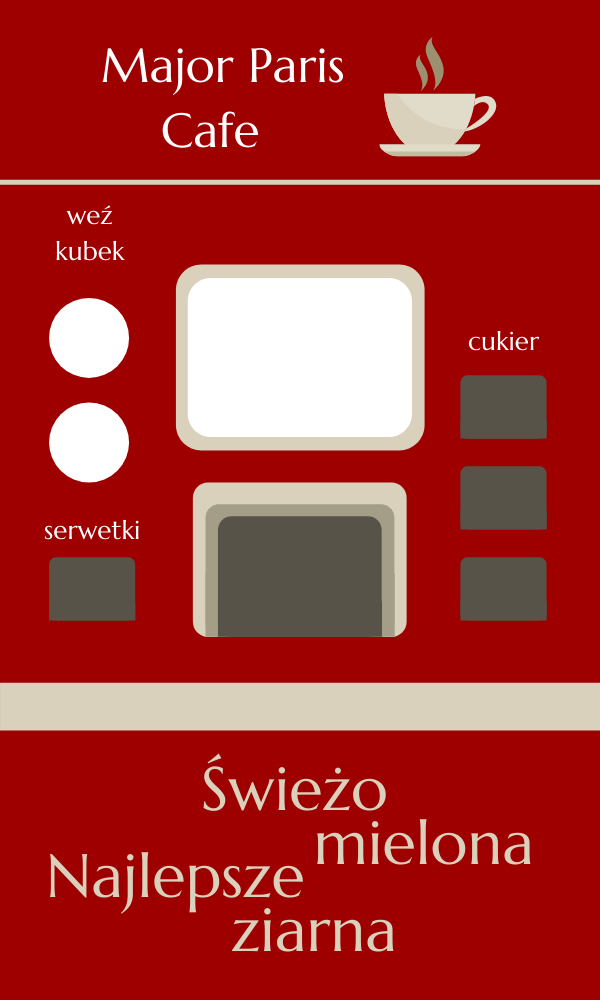
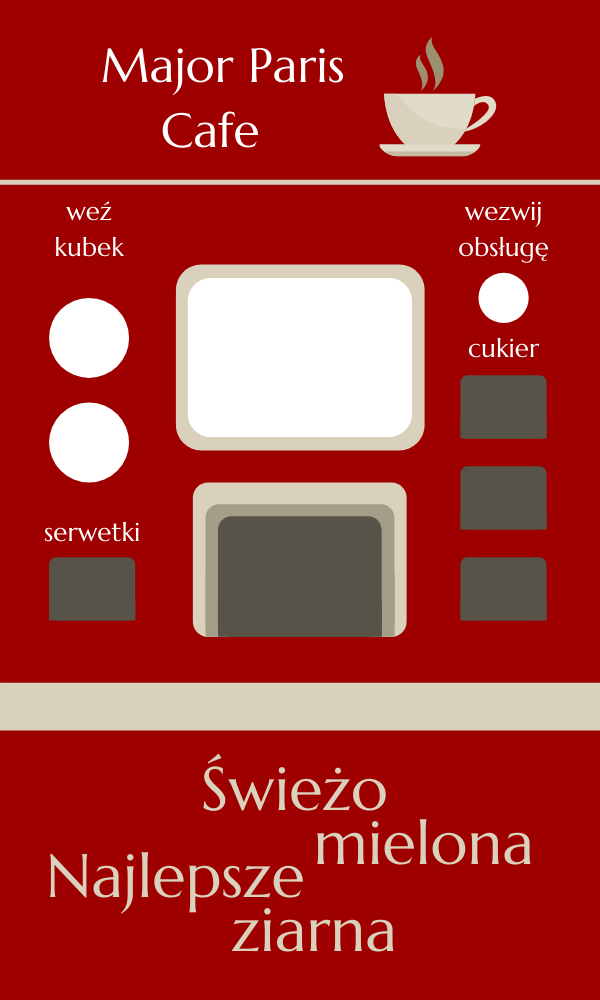
Added features: call help button, sounds when making coffee

Changed region(s): [[0.78, 0.186, 0.9, 0.372], [0.09, 0.186, 0.21, 0.279], [0.06, 0.527, 0.24, 0.558]]

diff --git a/src/sample/style.css b/src/sample/style.css
@@ -110,3 +110,12 @@
     -fx-background-position: center;
     -fx-background-repeat: no-repeat;
 }
+
+.help_button {
+    -fx-background-image: url('images/help.png');
+    -fx-background-size: 100%;
+    -fx-background-position: center;
+    -fx-background-repeat: no-repeat;
+    -fx-effect: dropshadow( three-pass-box , rgba(0,0,0,1) , 3, 0.0 , 0 , 1 );
+    -fx-background-radius: 5em;
+}

diff --git a/src/sample/Controller.java b/src/sample/Controller.java
@@ -29,6 +29,12 @@ public class Controller implements Initializable {
 
     @FXML
     public Button start;
+    public Button sugar1;
+    public Button sugar2;
+    public Button sugar3;
+    public Button sugar4;
+    public Button sugar5;
+    public Button sugar6;
 
     @Override
     public void initialize(URL url, ResourceBundle resourceBundle) {
@@ -53,6 +59,16 @@ public class Controller implements Initializable {
     }
 
     @FXML
+    public void refillAccessories(ActionEvent event){
+        sugar1.setStyle("-fx-opacity: 1;");
+        sugar2.setStyle("-fx-opacity: 1;");
+        sugar3.setStyle("-fx-opacity: 1;");
+        sugar4.setStyle("-fx-opacity: 1;");
+        sugar5.setStyle("-fx-opacity: 1;");
+        sugar6.setStyle("-fx-opacity: 1;");
+    }
+
+    @FXML
     public void startCafeHandler(ActionEvent event) {
         if(late.isSelected() || espresso.isSelected()){
             cafe.setStyle("-fx-background-image: url('images/kawa1.png');");
@@ -61,25 +77,10 @@ public class Controller implements Initializable {
             if(late.isSelected()) start.setText("Caffe latte");
             if(espresso.isSelected()) start.setText("Espresso");
 
-            /*String path = "images/cafe_audio.mp3";
-            Media cafeAudio = new Media("file:///images/cafe_audio.mp3");
+            Media cafeAudio = new Media(this.getClass().getResource("images/cafe_audio.mp3").toString());
             MediaPlayer cafeAudioPlayer = new MediaPlayer(cafeAudio);
+            cafeAudioPlayer.play();
 
-
-            new Thread(() ->
-            {
-                try
-                {
-                    while(true)
-                    {
-                        cafeAudioPlayer.play();
-                    }
-                }
-                catch (Exception e)
-                {
-                    e.printStackTrace();
-                }
-            }).start();*/
             new Thread(() ->
             {
                 try
